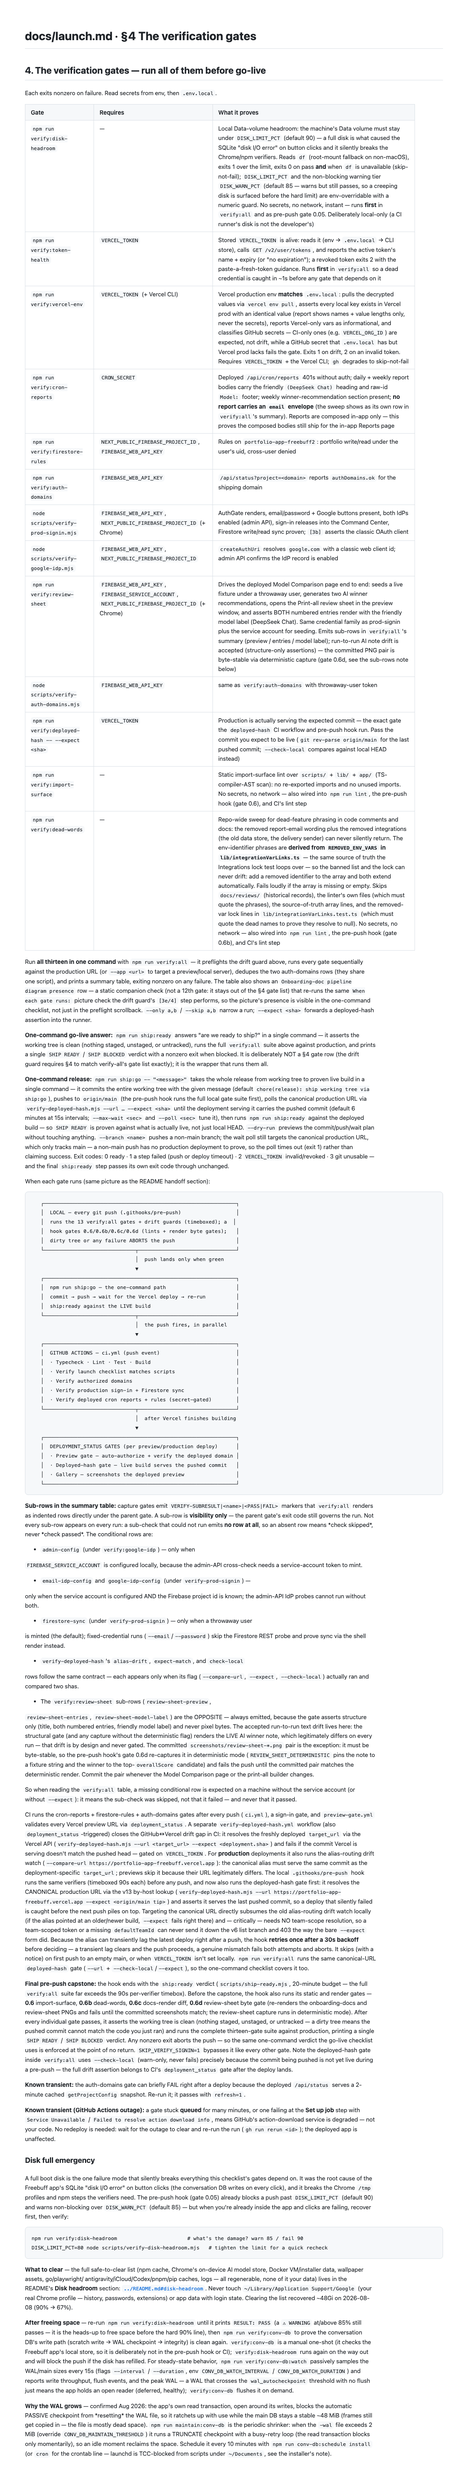
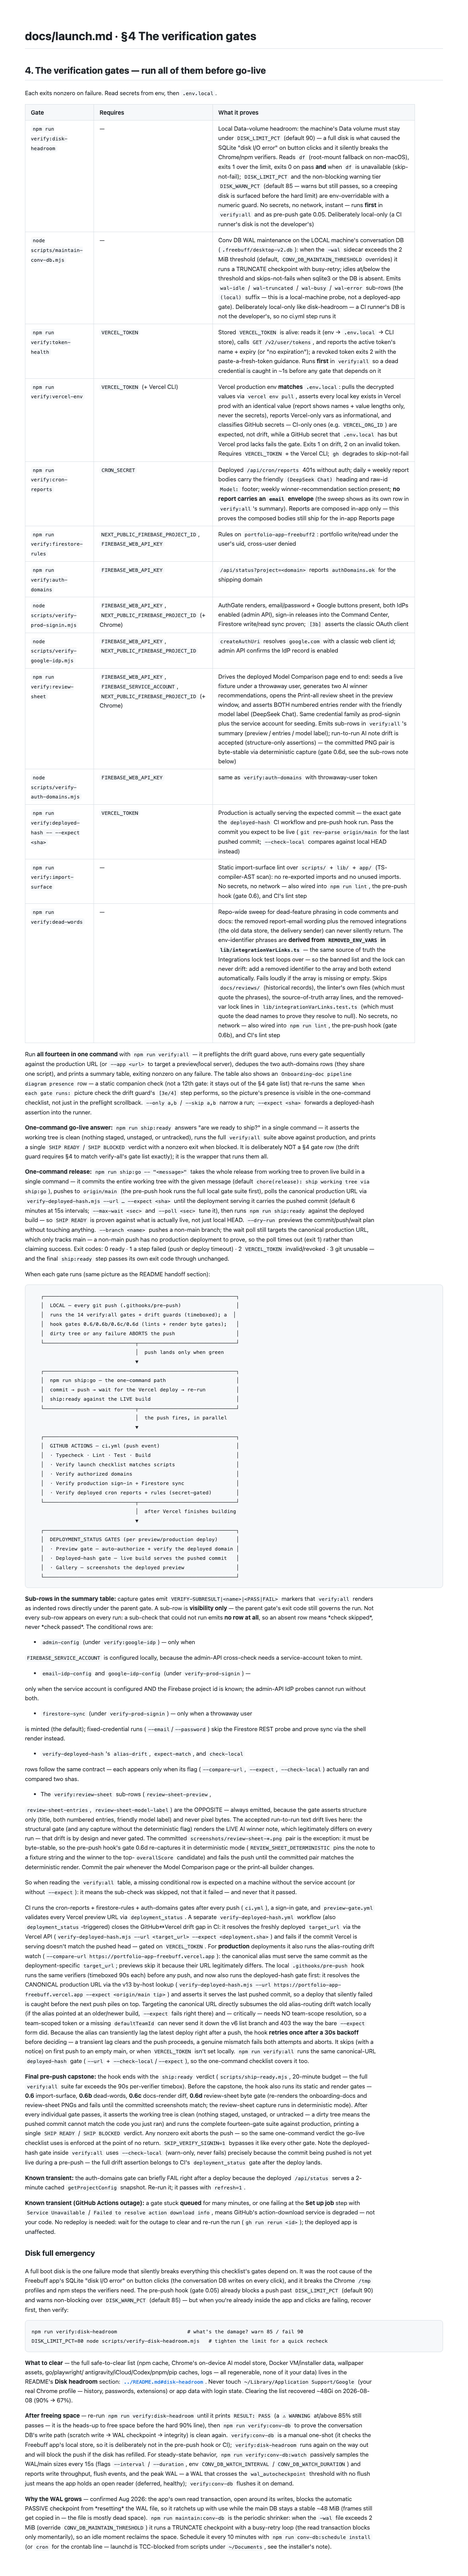
feat(verify-all): add conv-db WAL maintenance as the 14th verification gate
The maintain-conv-db outcome now surfaces as its own row in the verify:all
summary table and docs/launch.md §4: the gate runs the local maintainer
against the machine's conversation DB and emits wal-idle / wal-truncated /
wal-busy / wal-error VERIFY-SUBRESULT markers, rendered as sub-rows with a
'(local)' suffix (the parseSubResultMarkers suffix param) so they are not
mislabeled as deployed-app checks. Like disk-headroom it is deliberately
local-only — a CI runner's DB is not the developer's — so no ci.yml step
runs it.

The full 13→14 contract chain moved together: EXPECTED_GATE_COUNT in
verify-all.mjs + verify-launch-checklist.mjs, the §4 row + Requires cell,
the README handoff table + "The 14 verification gates" heading, both
pipeline diagrams (kept byte-identical), and every contract test
(verify-all, launch-checklist-gates/secrets, readme-handoff,
markdown-html, ship-ready). The docs PNGs were re-captured and the
dimension band raised to 7000px because the §4 table legitimately grew.

diff --git a/scripts/verify-all.test.ts b/scripts/verify-all.test.ts
@@ -4,13 +4,15 @@ import { describe, expect, it } from 'vitest';
 
 import { parseSubResultMarkers, SUBRESULT_LABELS } from './verify-all-subresults.mjs';
 
-// The gates that EMIT markers: every scripts/verify-*.mjs except the runner
-// (verify-all.mjs) and the contract module (verify-all-subresults.mjs), which
-// only document/consume the format. Scanning real sources is what makes the
-// drift guard genuine: a gate that starts emitting a marker without a label —
-// or a label left behind by a gate that stopped emitting it — fails the suite.
+// The gates that EMIT markers: every scripts/verify-*.mjs plus the
+// maintain-conv-db.mjs gate (which runs as verify:all's conv-db row and emits
+// wal-* markers), except the runner (verify-all.mjs) and the contract module
+// (verify-all-subresults.mjs), which only document/consume the format.
+// Scanning real sources is what makes the drift guard genuine: a gate that
+// starts emitting a marker without a label — or a label left behind by a gate
+// that stopped emitting it — fails the suite.
 const GATE_FILES = readdirSync(join(process.cwd(), 'scripts'))
-  .filter((f) => /^verify-.*\.mjs$/.test(f))
+  .filter((f) => /^verify-.*\.mjs$/.test(f) || f === 'maintain-conv-db.mjs')
   .filter((f) => f !== 'verify-all.mjs' && f !== 'verify-all-subresults.mjs')
   .map((f) => join(process.cwd(), 'scripts', f));
 
@@ -136,7 +138,7 @@ describe('verify-all.mjs · onboarding-doc pipeline-diagram presence row', () =>
   it('stays OUT of GATE_NAMES so the 11-gate §4 contract is intact', () => {
     // The row is a companion check, not a 12th gate. If it ever joins
     // GATE_NAMES, the launch-checklist drift guard cross-check would fail
-    // (the runner's gate names must exactly match §4's thirteen), so this
+    // (the runner's gate names must exactly match §4's fourteen), so this
     // assertion pins the deliberate exclusion.
     const gateNamesLine = src.match(/const GATE_NAMES = \[[^\]]*\]/)?.[0] ?? '';
     expect(gateNamesLine).not.toContain('pipeline-diagram');
@@ -152,21 +154,21 @@ describe('verify-all.mjs · onboarding-doc pipeline-diagram presence row', () =>
   });
 });
 
-// ── verify-all.mjs's 13-gate self-check ────────────────────────────────────
-// The runner asserts GATE_NAMES.length === 13 (matching the drift guard's
+// ── verify-all.mjs's 14-gate self-check ────────────────────────────────────
+// The runner asserts GATE_NAMES.length === 14 (matching the drift guard's
 // EXPECTED_GATE_COUNT) BEFORE the preflight spawn or any gate executes, so a
 // future gate added without the full contract update fails loudly at runtime
 // instead of silently widening the table.
 
-describe('verify-all.mjs · 13-gate runtime self-check', () => {
+describe('verify-all.mjs · 14-gate runtime self-check', () => {
   const src = readFileSync(join(process.cwd(), 'scripts', 'verify-all.mjs'), 'utf8');
 
-  it('hardcodes EXPECTED_GATE_COUNT = 13 matching the drift guard', () => {
+  it('hardcodes EXPECTED_GATE_COUNT = 14 matching the drift guard', () => {
     // The runner and verify-launch-checklist.mjs must promise the SAME count;
     // a future gate bump that touches only one file fails this lock.
-    expect(src).toContain('const EXPECTED_GATE_COUNT = 13;');
+    expect(src).toContain('const EXPECTED_GATE_COUNT = 14;');
     const drift = readFileSync(join(process.cwd(), 'scripts', 'verify-launch-checklist.mjs'), 'utf8');
-    expect(drift).toContain('const EXPECTED_GATE_COUNT = 13;');
+    expect(drift).toContain('const EXPECTED_GATE_COUNT = 14;');
   });
 
   it('asserts GATE_NAMES.length === EXPECTED_GATE_COUNT before the preflight and any gate runs', () => {
@@ -186,21 +188,21 @@ describe('verify-all.mjs · 13-gate runtime self-check', () => {
     // constant and the results array) — a file-wide regex would be satisfied
     // by the unknown-gate block's process.exit(2) even if the self-check's own
     // exit were silently removed.
-    const block = src.slice(src.indexOf('const EXPECTED_GATE_COUNT = 13;'), src.indexOf('const failures = [];'));
+    const block = src.slice(src.indexOf('const EXPECTED_GATE_COUNT = 14;'), src.indexOf('const failures = [];'));
     expect(block.length).toBeGreaterThan(0);
     expect(block).toContain('launch-checklist contract promises');
     expect(block).toContain('Update every surface together, then re-run.');
     expect(block).toMatch(/process\.exit\(2\);/);
   });
 
-  it('keeps GATE_NAMES and GATES at 13 entries today (live-tree lock)', () => {
+  it('keeps GATE_NAMES and GATES at 14 entries today (live-tree lock)', () => {
     // The self-check must pass on the real tree right now: both arrays hold
-    // exactly 13 entries and agree with each other, so the guard is green
+    // exactly 14 entries and agree with each other, so the guard is green
     // rather than dead code that trips on the next run.
     const gateNames = src.match(/const GATE_NAMES = \[([^\]]*)\]/)?.[1] ?? '';
-    expect([...gateNames.matchAll(/'([^']+)'/g)]).toHaveLength(13);
+    expect([...gateNames.matchAll(/'([^']+)'/g)]).toHaveLength(14);
     const gatesBody = src.match(/const GATES = \[([\s\S]*?)\n\];/)?.[1] ?? '';
-    expect([...gatesBody.matchAll(/name: '([^']+)'/g)]).toHaveLength(13);
+    expect([...gatesBody.matchAll(/name: '([^']+)'/g)]).toHaveLength(14);
   });
 });
 

diff --git a/scripts/readme-handoff.test.ts b/scripts/readme-handoff.test.ts
@@ -6,7 +6,7 @@ import { describe, expect, it } from 'vitest';
 // runner's gate names.
 //
 // The README's `## Handoff — read this first` section carries an
-// "The 13 verification gates" table — the overview surface a cold maintainer
+// "The 14 verification gates" table — the overview surface a cold maintainer
 // meets first. scripts/verify-all.mjs's GATE_NAMES array is the source of
 // truth the one-command runner actually EXECUTES. If a gate is renamed in the
 // runner without a README update (or a row is dropped / a gate is invented in
@@ -25,13 +25,13 @@ const README = readFileSync('README.md', 'utf8');
 const VERIFY_ALL = readFileSync('scripts/verify-all.mjs', 'utf8');
 
 /**
- * The gate names listed in the README handoff's "The 13 verification gates"
+ * The gate names listed in the README handoff's "The 14 verification gates"
  * table, in order. Parsed strictly inside that section (from the heading to
  * the next `### ` heading) so another table elsewhere in the README can't
  * satisfy the assertions. Returns [] when the section is missing.
  */
 export function parseReadmeGateNames(readmeText: string): string[] {
-  const sectionStart = readmeText.indexOf('### The 13 verification gates');
+  const sectionStart = readmeText.indexOf('### The 14 verification gates');
   if (sectionStart === -1) return [];
   const nextHeading = readmeText.indexOf('\n### ', sectionStart + 1);
   const section =
@@ -55,7 +55,7 @@ describe('parseReadmeGateNames (pure helper)', () => {
   it('returns the gate column of the handoff table in order', () => {
     const readme = [
       '## Handoff — read this first',
-      '### The 13 verification gates',
+      '### The 14 verification gates',
       '| Gate | Requires | Proves |',
       '| --- | --- | --- |',
       '| token-health | `VERCEL_TOKEN` | alive token |',
@@ -72,7 +72,7 @@ describe('parseReadmeGateNames (pure helper)', () => {
       '# README',
       '| Gate | Requires | Proves |',
       '| not-a-handoff-row | — | earlier table |',
-      '### The 13 verification gates',
+      '### The 14 verification gates',
       '| Gate | Requires | Proves |',
       '| --- | --- | --- |',
       '| import-surface | — | lint |',
@@ -87,14 +87,14 @@ describe('parseReadmeGateNames (pure helper)', () => {
 
 describe('README handoff gate table contract', () => {
   it('has the expected table shape in the handoff section', () => {
-    const sectionStart = README.indexOf('### The 13 verification gates');
+    const sectionStart = README.indexOf('### The 14 verification gates');
     expect(sectionStart).toBeGreaterThan(-1);
     const section = README.slice(sectionStart);
     expect(section).toContain('| Gate | Requires | Proves |');
   });
 
   it('lists exactly the runner gate names, in order, with no drift', () => {
-    expect(runnerGateNames).toHaveLength(13);
+    expect(runnerGateNames).toHaveLength(14);
     expect(parseReadmeGateNames(README)).toEqual(runnerGateNames);
   });
 

diff --git a/scripts/launch-checklist-gates.test.ts b/scripts/launch-checklist-gates.test.ts
@@ -29,7 +29,7 @@ describe('crossCheckVerifyAllGates (live repo)', () => {
       docCommands: gates,
       verifyAllSrc,
       npmScripts,
-      expectedCount: 13,
+      expectedCount: 14,
     });
     expect(failures).toEqual([]);
   });
@@ -44,7 +44,7 @@ describe('crossCheckVerifyAllGates (live repo)', () => {
       docCommands: gates,
       verifyAllSrc: renamed,
       npmScripts,
-      expectedCount: 13,
+      expectedCount: 14,
     });
     expect(failures.join('\n')).toContain('zombie-words');
     expect(failures.join('\n')).toContain('dead-words');
@@ -61,9 +61,9 @@ describe('crossCheckVerifyAllGates (live repo)', () => {
       docCommands: gates,
       verifyAllSrc: dropped,
       npmScripts,
-      expectedCount: 13,
+      expectedCount: 14,
     });
-    expect(failures.join('\n')).toContain('declares 12 gate names');
+    expect(failures.join('\n')).toContain('declares 13 gate names');
     expect(failures.join('\n')).toContain('dead-words');
   });
 });

diff --git a/scripts/capture-docs-dimensions.test.ts b/scripts/capture-docs-dimensions.test.ts
@@ -40,11 +40,12 @@ const EXPECTED = [
 
 const WIDTH = 1200;
 const MIN_HEIGHT = 2000;
-// 6500 not 6000: launch.md §4 carries the Disk full emergency subsection
-// (added 2026-08-08) and renders ~6050 tall; the band's real job is catching
-// the 800px MIN_H broken-page collapse, so it tracks content growth while
+// 7000 not 6500: launch.md §4 carries the Disk full emergency subsection
+// (added 2026-08-08) and grew again when the conv-db WAL gate became the
+// 14th §4 row (renders ~6600 tall). The band's real job is catching the
+// 800px MIN_H broken-page collapse, so it tracks content growth while
 // staying far above the floor and far below any pathological render.
-const MAX_HEIGHT = 6500;
+const MAX_HEIGHT = 7000;
 
 // ── Dependency-free PNG IHDR parser ─────────────────────────────────────────
 // Width/height live in the IHDR chunk at fixed offsets after the 8-byte

diff --git a/scripts/launch-checklist-secrets.test.ts b/scripts/launch-checklist-secrets.test.ts
@@ -16,8 +16,8 @@ describe('parseLaunchChecklistTable (live repo)', () => {
     expect(header).toMatch(/^\|\s*Gate\s*\|\s*Requires\s*\|/);
   });
 
-  it('parses all 13 gate rows with their Requires cells', () => {
-    expect(rows).toHaveLength(13);
+  it('parses all 14 gate rows with their Requires cells', () => {
+    expect(rows).toHaveLength(14);
     for (const row of rows) {
       expect(row.command).toMatch(/^(npm run verify:|node scripts\/)/);
       // Every row must carry a secrets requirement cell — the contract under
@@ -175,7 +175,7 @@ describe('crossCheckVerifyAllGates still passes with the shared parser (live rep
       docCommands: gates,
       verifyAllSrc,
       npmScripts,
-      expectedCount: 13,
+      expectedCount: 14,
     });
     expect(failures).toEqual([]);
   });

diff --git a/scripts/markdown-html.test.ts b/scripts/markdown-html.test.ts
@@ -154,7 +154,7 @@ describe('extractSection', () => {
     const readme = readFileSync('README.md', 'utf8');
     const section = extractSection(readme, '## Handoff', '## Screenshots');
     expect(section).toContain('## Handoff — read this first');
-    expect(section).toContain('### The 13 verification gates');
+    expect(section).toContain('### The 14 verification gates');
     expect(section).toContain('When each gate runs:');
     // Both docs-PNG embeds must stay inside the Handoff section (before the
     // Screenshots section) — a future edit dropping either embed fails here.

diff --git a/docs/launch.md b/docs/launch.md
@@ -74,6 +74,7 @@ Each exits nonzero on failure. Read secrets from env, then `.env.local`.
 | Gate | Requires | What it proves |
 | --- | --- | --- |
 | `npm run verify:disk-headroom` | — | Local Data-volume headroom: the machine's Data volume must stay under `DISK_LIMIT_PCT` (default 90) — a full disk is what caused the SQLite "disk I/O error" on button clicks and it silently breaks the Chrome/npm verifiers. Reads `df` (root-mount fallback on non-macOS), exits 1 over the limit, exits 0 on pass **and** when `df` is unavailable (skip-not-fail); `DISK_LIMIT_PCT` and the non-blocking warning tier `DISK_WARN_PCT` (default 85 — warns but still passes, so a creeping disk is surfaced before the hard limit) are env-overridable with a numeric guard. No secrets, no network, instant — runs **first** in `verify:all` and as pre-push gate 0.05. Deliberately local-only (a CI runner's disk is not the developer's) |
+| `node scripts/maintain-conv-db.mjs` | — | Conv DB WAL maintenance on the LOCAL machine's conversation DB (`.freebuff/desktop-v2.db`): when the `-wal` sidecar exceeds the 2 MiB threshold (default, `CONV_DB_MAINTAIN_THRESHOLD` overrides) it runs a TRUNCATE checkpoint with busy-retry; idles at/below the threshold and skips-not-fails when sqlite3 or the DB is absent. Emits `wal-idle` / `wal-truncated` / `wal-busy` / `wal-error` sub-rows (the `(local)` suffix — this is a local-machine probe, not a deployed-app gate). Deliberately local-only like disk-headroom — a CI runner's DB is not the developer's, so no ci.yml step runs it |
 | `npm run verify:token-health` | `VERCEL_TOKEN` | Stored `VERCEL_TOKEN` is alive: reads it (env → `.env.local` → CLI store), calls `GET /v2/user/tokens`, and reports the active token's name + expiry (or "no expiration"); a revoked token exits 2 with the paste-a-fresh-token guidance. Runs **first** in `verify:all` so a dead credential is caught in ~1s before any gate that depends on it |
 | `npm run verify:vercel-env` | `VERCEL_TOKEN` (+ Vercel CLI) | Vercel production env **matches** `.env.local`: pulls the decrypted values via `vercel env pull`, asserts every local key exists in Vercel prod with an identical value (report shows names + value lengths only, never the secrets), reports Vercel-only vars as informational, and classifies GitHub secrets — CI-only ones (e.g. `VERCEL_ORG_ID`) are expected, not drift, while a GitHub secret that `.env.local` has but Vercel prod lacks fails the gate. Exits 1 on drift, 2 on an invalid token. Requires `VERCEL_TOKEN` + the Vercel CLI; `gh` degrades to skip-not-fail |
 | `npm run verify:cron-reports` | `CRON_SECRET` | Deployed `/api/cron/reports` 401s without auth; daily + weekly report bodies carry the friendly `(DeepSeek Chat)` heading and raw-id `Model:` footer; weekly winner-recommendation section present; **no report carries an `email` envelope** (the sweep shows as its own row in `verify:all`'s summary). Reports are composed in-app only — this proves the composed bodies still ship for the in-app Reports page |
@@ -87,7 +88,7 @@ Each exits nonzero on failure. Read secrets from env, then `.env.local`.
 | `npm run verify:import-surface` | — | Static import-surface lint over `scripts/` + `lib/` + `app/` (TS-compiler-AST scan): no re-exported imports and no unused imports. No secrets, no network — also wired into `npm run lint`, the pre-push hook (gate 0.6), and CI's lint step |
 | `npm run verify:dead-words` | — | Repo-wide sweep for dead-feature phrasing in code comments and docs: the removed report-email wording plus the removed integrations (the old data store, the delivery sender) can never silently return. The env-identifier phrases are **derived from `REMOVED_ENV_VARS` in `lib/integrationVarLinks.ts`** — the same source of truth the Integrations lock test loops over — so the banned list and the lock can never drift: add a removed identifier to the array and both extend automatically. Fails loudly if the array is missing or empty. Skips `docs/reviews/` (historical records), the linter's own files (which must quote the phrases), the source-of-truth array lines, and the removed-var lock lines in `lib/integrationVarLinks.test.ts` (which must quote the dead names to prove they resolve to null). No secrets, no network — also wired into `npm run lint`, the pre-push hook (gate 0.6b), and CI's lint step |
 
-Run **all thirteen in one command** with `npm run verify:all` — it preflights the
+Run **all fourteen in one command** with `npm run verify:all` — it preflights the
 drift guard above, runs every gate sequentially against the production URL
 (or `--app <url>` to target a preview/local server), dedupes the two
 auth-domains rows (they share one script), and prints a summary table,
@@ -130,7 +131,7 @@ When each gate runs (same picture as the README handoff section):
 ```text
    ┌───────────────────────────────────────────────────────────────┐
    │  LOCAL — every git push (.githooks/pre-push)                  │
-   │  runs the 13 verify:all gates + drift guards (timeboxed); a  │
+   │  runs the 14 verify:all gates + drift guards (timeboxed); a  │
    │  hook gates 0.6/0.6b/0.6c/0.6d (lints + render byte gates);   │
    │  dirty tree or any failure ABORTS the push                    │
    └──────────────────────────────┬────────────────────────────────┘
@@ -239,7 +240,7 @@ screenshots match; the review-sheet capture runs in deterministic mode). After
 every individual gate passes, it
 asserts the working tree is clean (nothing staged, unstaged, or untracked — a
 dirty tree means the pushed commit cannot match the code you just ran) and
-runs the complete thirteen-gate suite against production, printing a single
+runs the complete fourteen-gate suite against production, printing a single
 `SHIP READY` / `SHIP BLOCKED` verdict. Any nonzero exit aborts the push — so
 the same one-command verdict the go-live checklist uses is enforced at the
 point of no return. `SKIP_VERIFY_SIGNIN=1` bypasses it like every other gate.
@@ -320,7 +321,7 @@ installer's note).
 2. **Vercel** — all env vars from §2 set on **Production** (and the GitHub secrets from §3).
 3. **Rules** — `npx firebase deploy --only firestore:rules --project portfolio-app-freebuff2`.
 4. **Push to `main`** — Vercel auto-deploys; the pre-push hook runs the local gates; CI runs the post-deploy gates.
-5. **Run the full verify suite** against the production URL (§4). All thirteen gates must pass.
+5. **Run the full verify suite** against the production URL (§4). All fourteen gates must pass.
 6. **Manual smoke** — sign in on the production URL with email/password, then Google; open Command Center; click AI Explain and confirm the briefing card renders with the `DeepSeek Chat` badge.
 
 ## 6. What was verified at go-live (2026-08-06)

diff --git a/README.md b/README.md
@@ -95,15 +95,16 @@ Data flow at a glance:
 └──────────────────────────────────────────────────────┘
 ```
 
-### The 13 verification gates
+### The 14 verification gates
 
-`npm run verify:all` runs all thirteen against the production URL (or
+`npm run verify:all` runs all fourteen against the production URL (or
 `--app <url>` for a preview) and exits nonzero on any failure. Each gate
 reads its secrets from env, then `.env.local`:
 
 | Gate | Requires | Proves |
 | --- | --- | --- |
 | disk-headroom | — | Local Data-volume headroom: the machine's Data volume stays under `DISK_LIMIT_PCT` (default 90) via `df`, with a non-blocking warning once it crosses `DISK_WARN_PCT` (default 85) — a full disk caused the SQLite "disk I/O error" on button clicks. Skip-not-fail when `df` is unavailable. Also pre-push gate 0.05 |
+| conv-db | — | Local WAL maintenance on the machine's conversation DB: TRUNCATE checkpoint when the `-wal` sidecar exceeds 2 MiB (busy-retry), idles at/below the threshold, skips-not-fail when sqlite3/DB absent. Emits `wal-idle`/`wal-truncated`/`wal-busy`/`wal-error` sub-rows (local suffix). Local-only like disk-headroom, never in CI |
 | token-health | `VERCEL_TOKEN` | the stored Vercel token is alive (name + expiry) |
 | vercel-env | `VERCEL_TOKEN` (+ Vercel CLI) | Vercel prod env matches `.env.local` |
 | cron-reports | `CRON_SECRET` | deployed cron 401s without auth; daily/weekly report bodies carry the friendly model heading + raw-id footer; no report send envelope |
@@ -135,7 +136,7 @@ When each gate runs:
 ```text
    ┌───────────────────────────────────────────────────────────────┐
    │  LOCAL — every git push (.githooks/pre-push)                  │
-   │  runs the 13 verify:all gates + drift guards (timeboxed); a  │
+   │  runs the 14 verify:all gates + drift guards (timeboxed); a  │
    │  hook gates 0.6/0.6b/0.6c/0.6d (lints + render byte gates);   │
    │  dirty tree or any failure ABORTS the push                    │
    └──────────────────────────────┬────────────────────────────────┘
